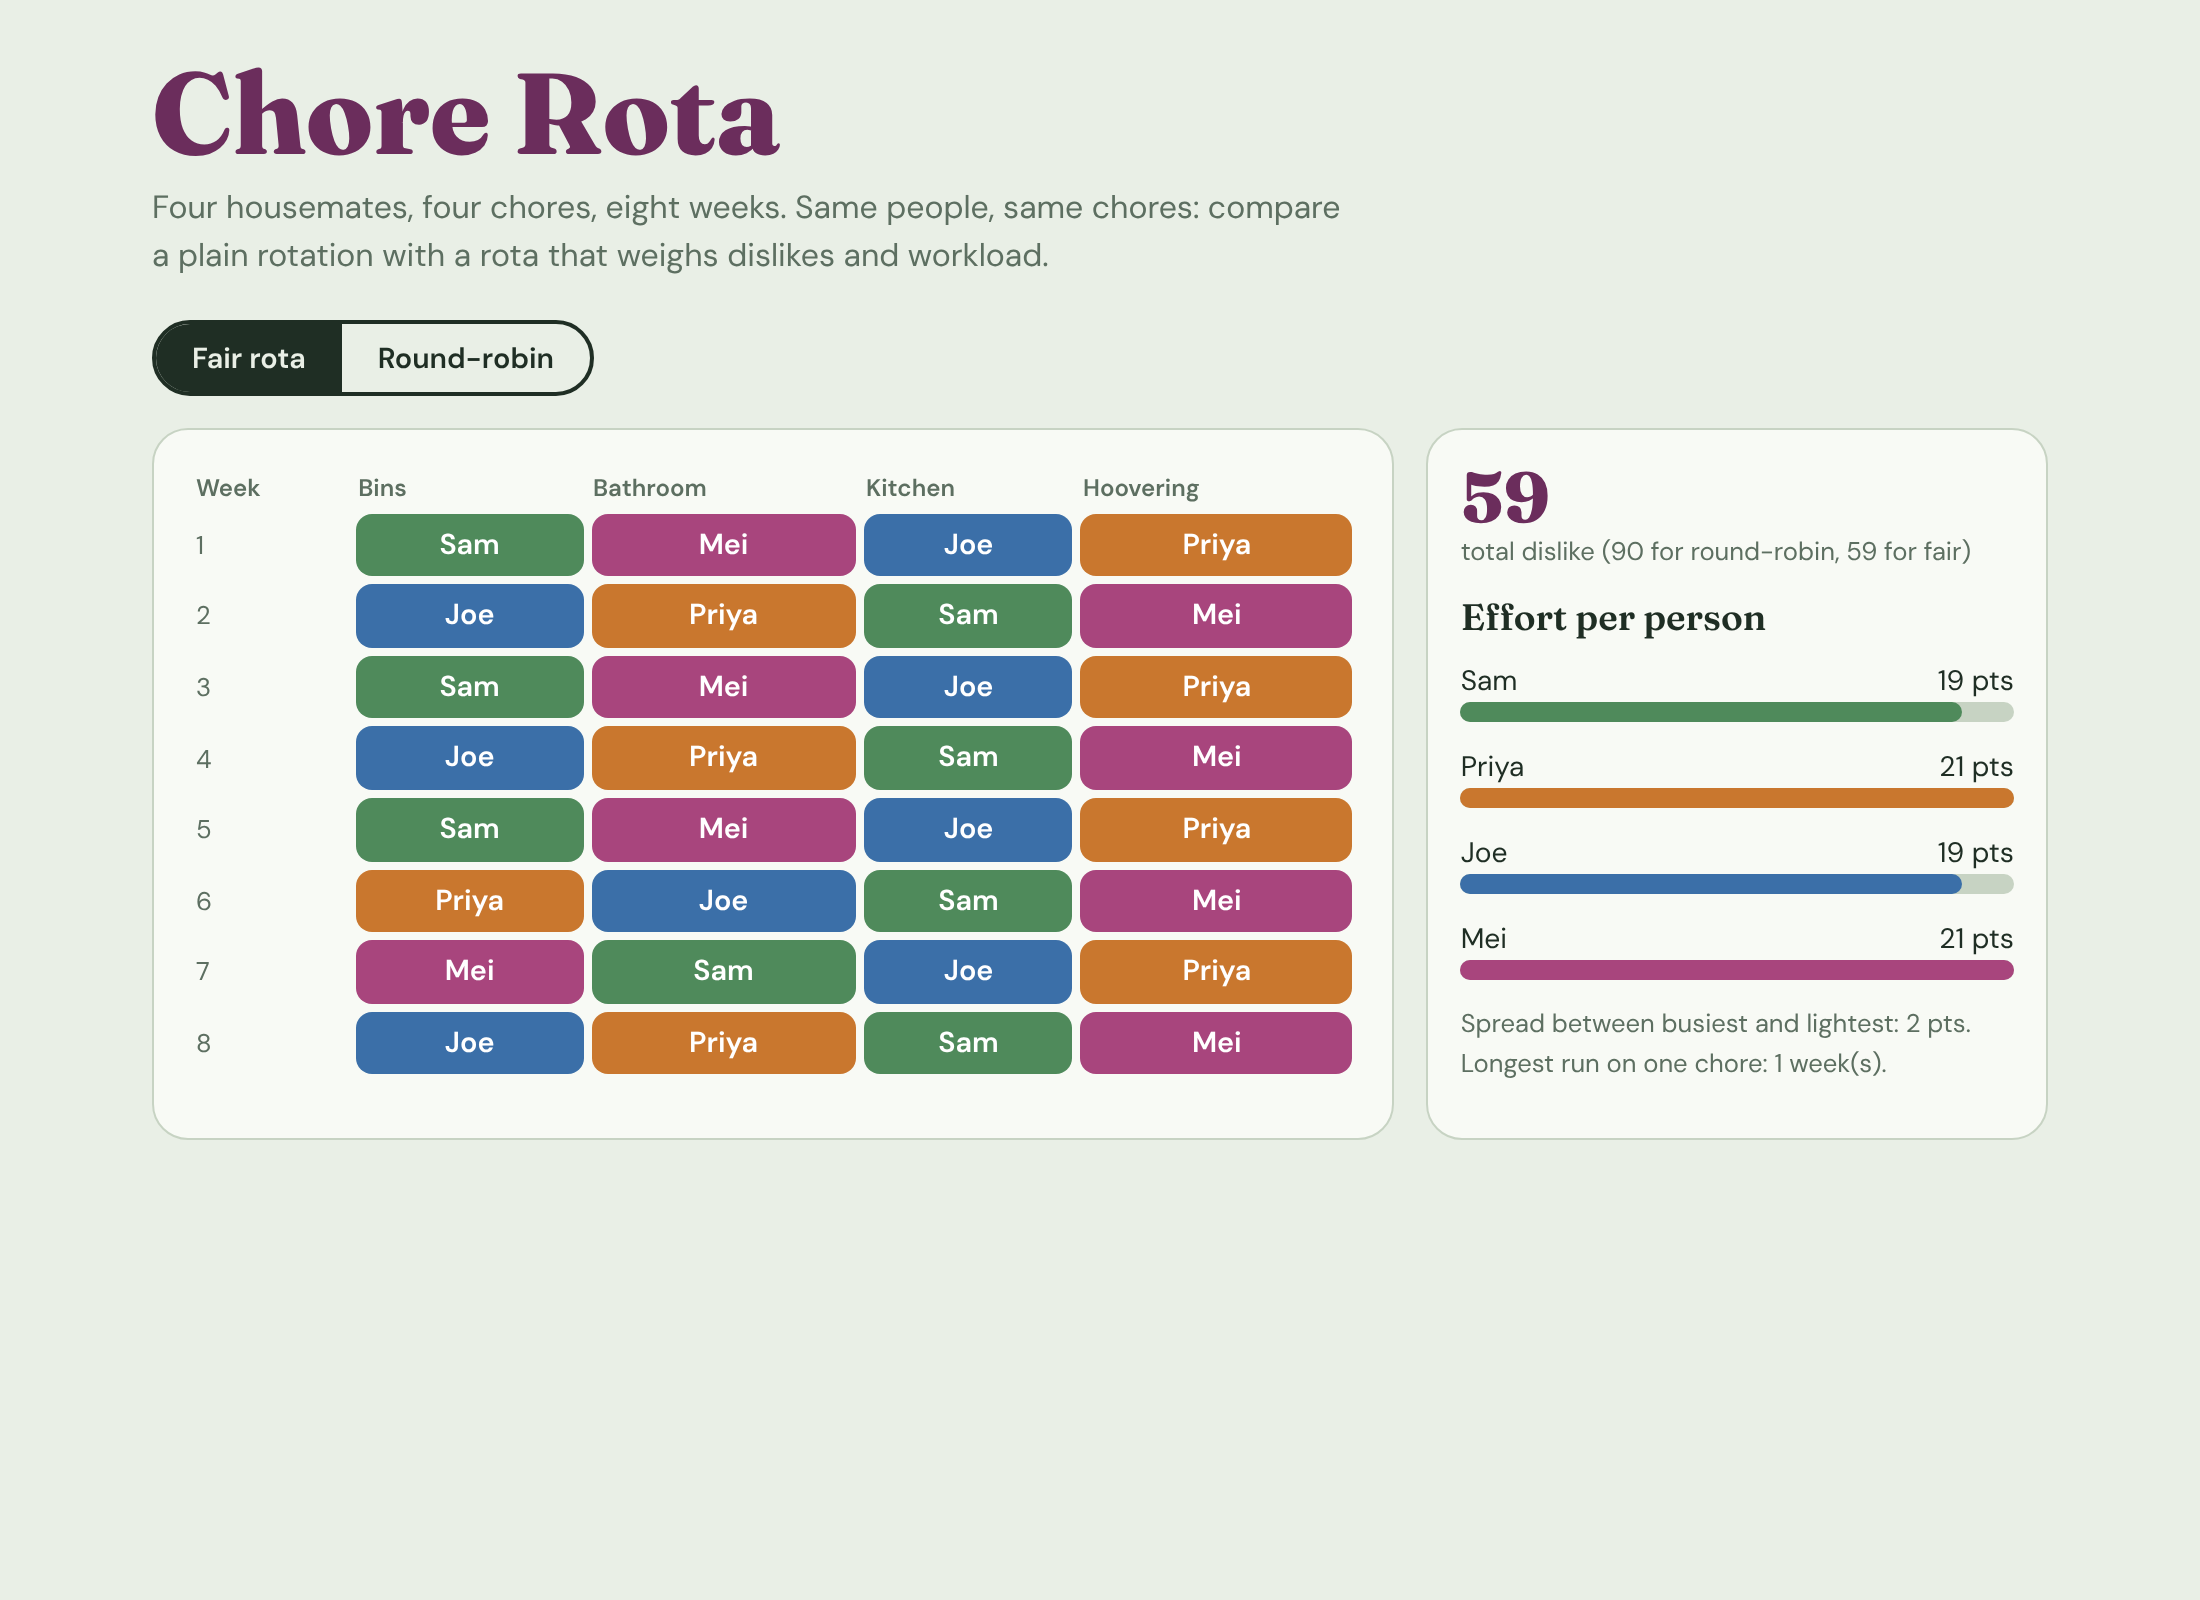
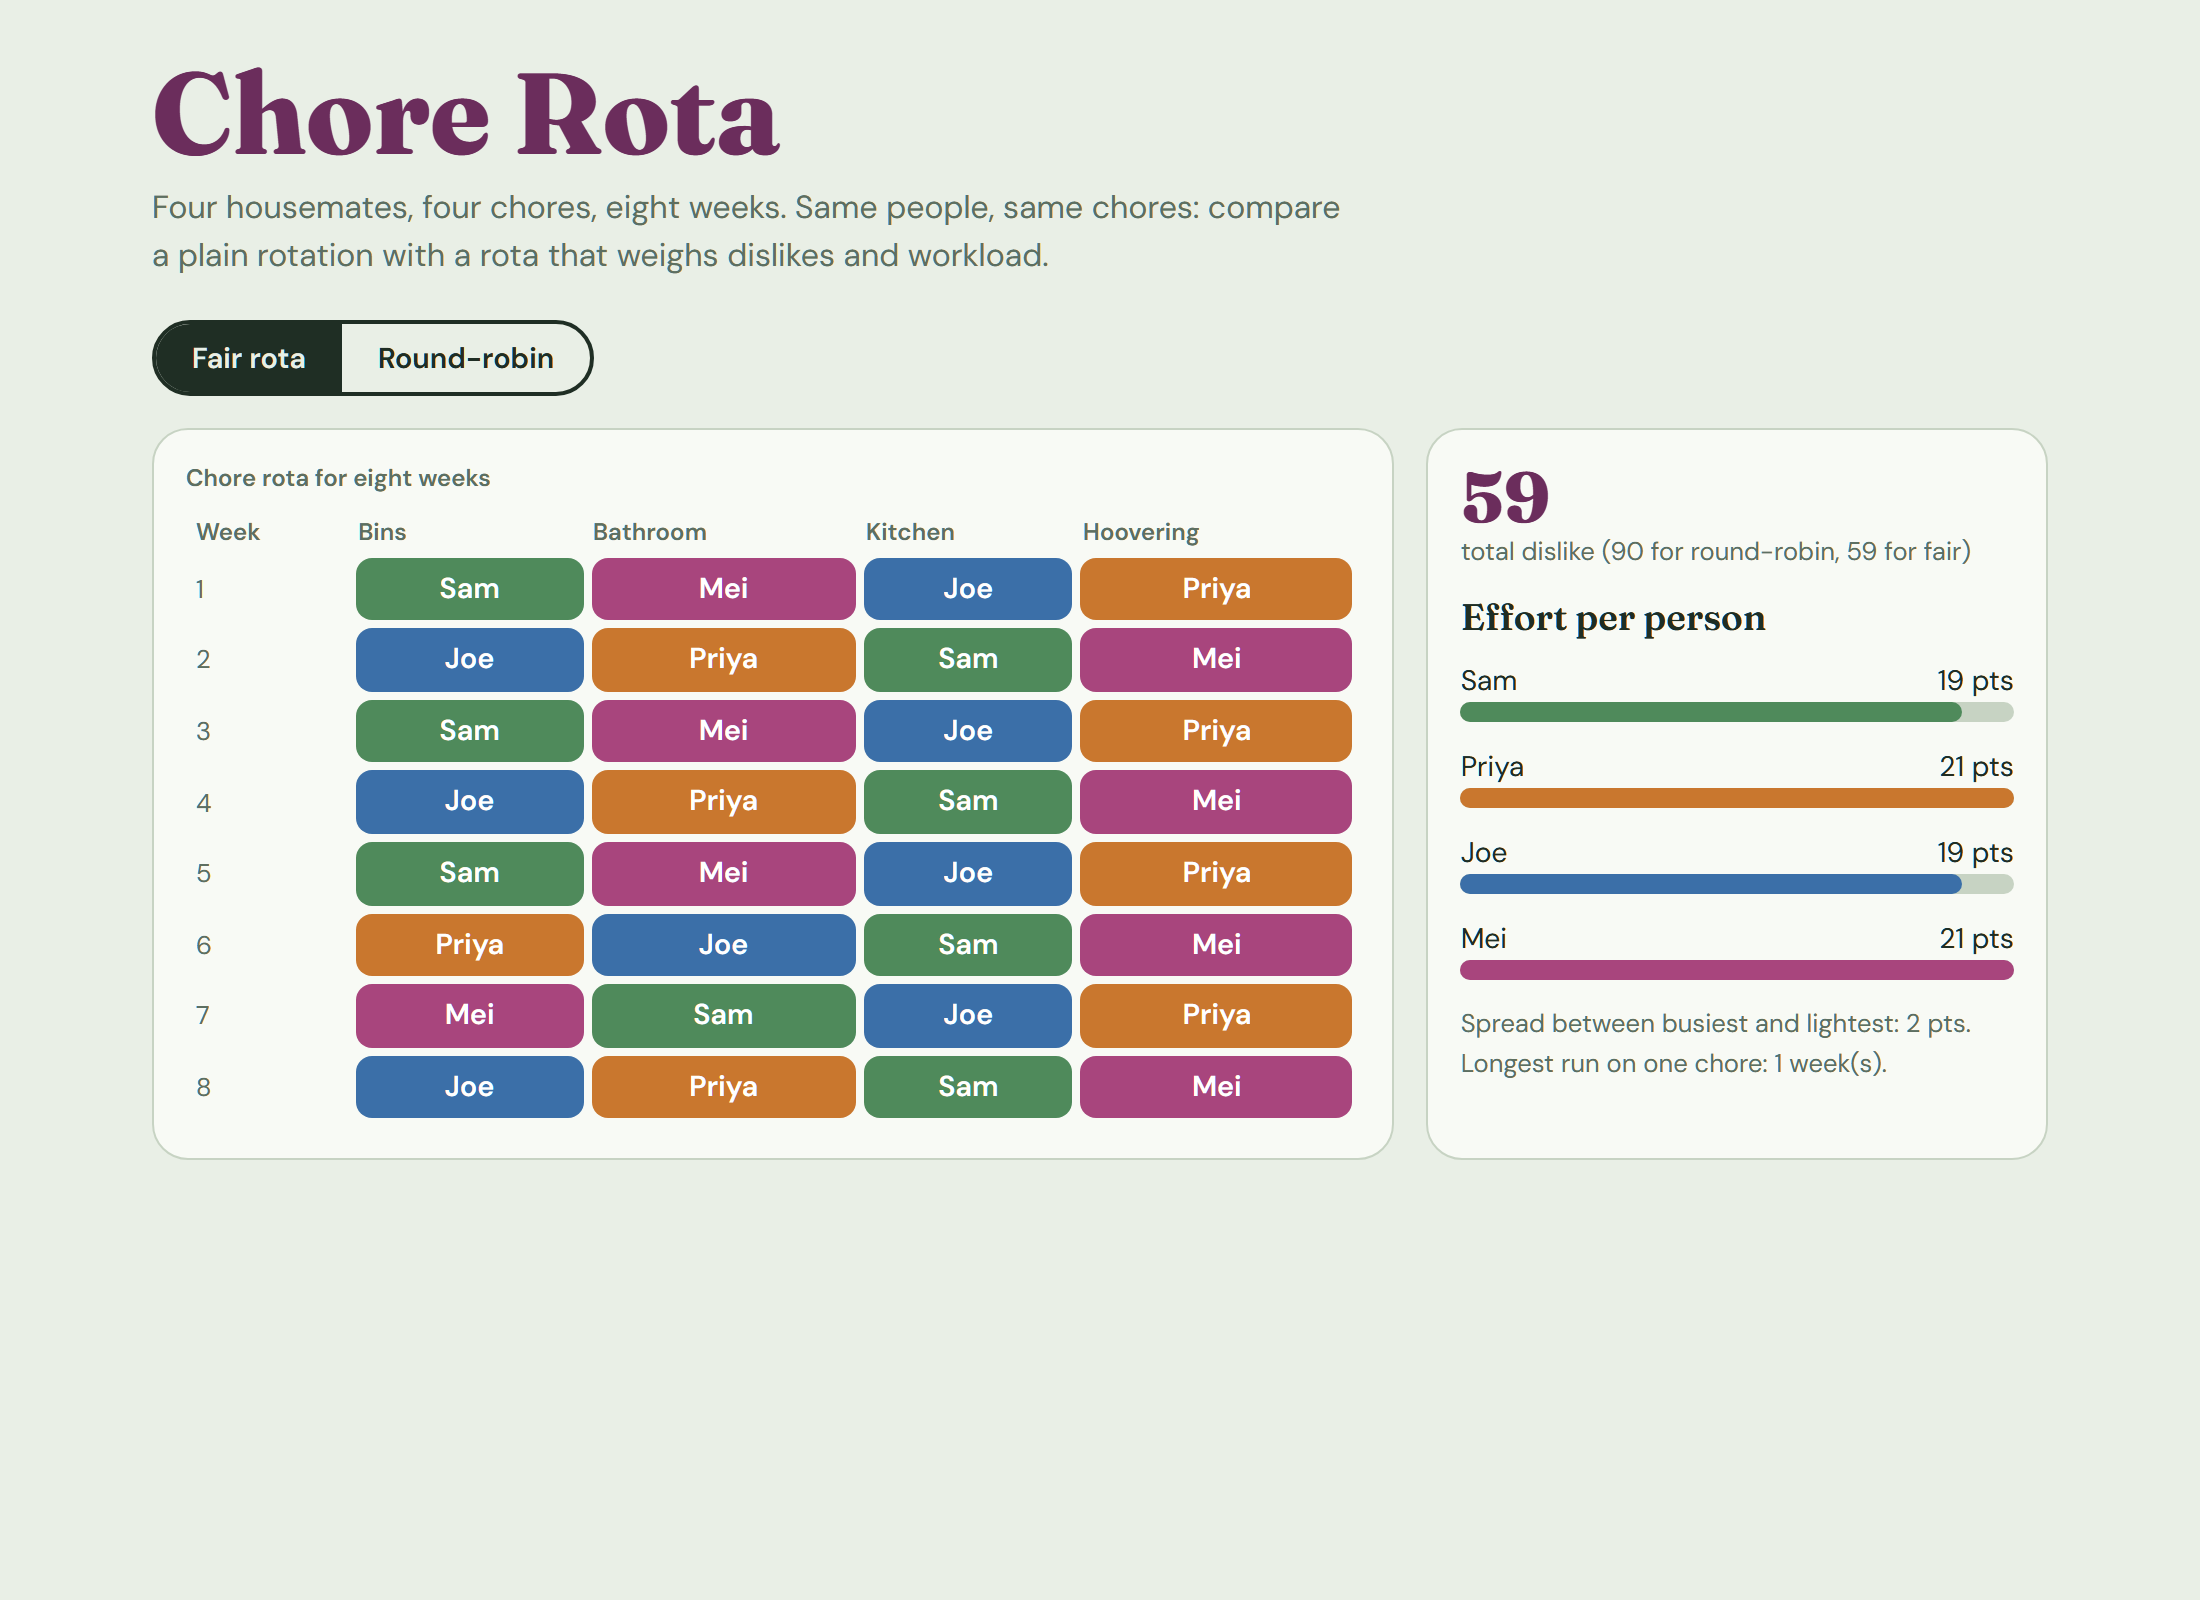
Improve chore-rota-planner

diff --git a/static/index.html b/static/index.html
@@ -23,11 +23,11 @@ h2{font:600 1.15rem Fraunces,serif;margin:0 0 10px}.row{margin-bottom:12px}.row 
 const $=i=>document.getElementById(i);let R,P=[],cur="fair";
 const col=n=>`var(--p${P.indexOf(n)%4})`;
 function show(){const x=R[cur];$("bf").setAttribute("aria-pressed",cur=="fair");$("br").setAttribute("aria-pressed",cur!="fair");
-$("t").innerHTML=`<tr><th>Week</th>${R.chores.map(c=>`<th>${c}</th>`).join("")}</tr>`+x.weeks.map((w,i)=>`<tr><td class="w">${i+1}</td>${w.map(n=>`<td class="c" style="background:${col(n)}">${n}</td>`).join("")}</tr>`).join("");
+$("t").innerHTML=`<caption style="caption-side:top;text-align:left;font:600 .75rem 'DM Sans',sans-serif;color:var(--mute);padding-bottom:6px">Chore rota for eight weeks</caption><tr><th>Week</th>${R.chores.map(c=>`<th>${c}</th>`).join("")}</tr>`+x.weeks.map((w,i)=>`<tr><td class="w">${i+1}</td>${w.map(n=>`<td class="c" style="background:${col(n)}">${n}</td>`).join("")}</tr>`).join("");
 const mx=Math.max(...Object.values(x.effort_by_person));
 $("side").innerHTML=`<div class="big">${x.dislike}</div><div class="k">total dislike (${R.round_robin.dislike} for round-robin, ${R.fair.dislike} for fair)</div>
 <h2>Effort per person</h2>${Object.entries(x.effort_by_person).map(([n,e])=>`<div class="row"><div><span>${n}</span><span>${e} pts</span></div><div class="bar"><i style="width:${e/mx*100}%;background:${col(n)}"></i></div></div>`).join("")}
 <div class="k">Spread between busiest and lightest: ${x.effort_spread} pts. Longest run on one chore: ${x.worst_streak} week(s).</div>`}
 $("bf").onclick=()=>{cur="fair";show()};$("br").onclick=()=>{cur="round_robin";show()};
-(async()=>{const d=await (await fetch("/sample")).json();P=d.people.map(p=>p.name);R=await (await fetch("/rota",{method:"POST",headers:{"Content-Type":"application/json"},body:JSON.stringify({people:d.people,chores:d.chores,weeks:8})})).json();show()})();
+(async()=>{try{const d=await (await fetch("/sample")).json();P=d.people.map(p=>p.name);R=await (await fetch("/rota",{method:"POST",headers:{"Content-Type":"application/json"},body:JSON.stringify({people:d.people,chores:d.chores,weeks:8})})).json();show()}catch(e){$("side").textContent="Could not build the rota. Refresh to try again.";}})();
 </script></body></html>

diff --git a/tests/test_all.py b/tests/test_all.py
@@ -83,3 +83,11 @@ def test_api_validation():
     body = c.get("/sample").json()
     bad = {"people": body["people"][:2], "chores": body["chores"], "weeks": 4}
     assert c.post("/rota", json=bad).status_code == 422
+
+
+def test_index_has_error_text():
+    assert "Could not build the rota" in c.get("/").text
+
+
+def test_index_has_table_caption():
+    assert "Chore rota for eight weeks" in c.get("/").text
